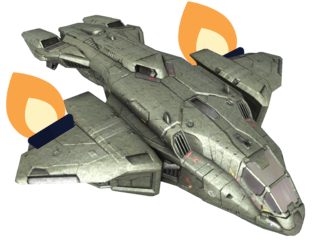
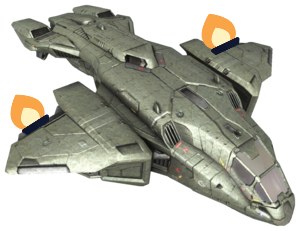
added flames to upgrade ships

diff --git a/assets/javascript/app.js b/assets/javascript/app.js
@@ -78,9 +78,6 @@ $(document).ready(function() {
             endOfGame(correct, incorrect);
         } 
         planet = planetArray[counter2]
-        console.log(xwing)
-        console.log(pelican)
-        console.log(enterprise)
         if (correct !== 2 && correct !== 4 && correct !== 7 || (xwing === true && correct === 2) || (pelican === true && correct === 4) || (enterprise === true && correct === 7)) {
             checkStatus();
         }
@@ -107,17 +104,17 @@ $(document).ready(function() {
     //Changes the users ship to the ship displayed
     $('.modal_upgrade').on('click', function(e) {
         if (correct === 2 ) {
-            $('#rocket').attr('src', shipArray[0]);
+            $('#rocket').attr('src', 'assets/images/x-wing-on.png');
             $('#rocket').css('margin-top', '1.5%');
             xwing = true;
         }
         if (correct === 4 ) {
-            $('#rocket').attr('src', shipArray[1]);
+            $('#rocket').attr('src', 'assets/images/pelican-on.png');
             $('#rocket').css('margin-top', '1%');
             pelican = true;
         }
         if (correct === 7 ) {
-            $('#rocket').attr('src', shipArray[2]);
+            $('#rocket').attr('src', 'assets/images/enterprise-on.png');
             $('#rocket').css('margin-top', '1.5%');
             enterprise = true;
         }
@@ -148,11 +145,35 @@ $(document).ready(function() {
         counter2++
         if (counter2 < 14){
         $('#rocket').addClass('animation'+counter2).removeClass('animation'+(counter2-1));
-        if (upgrade === false) {
-            $('#rocket').attr('src', 'assets/images/rocket.png')
-                timer = setTimeout(switchImage, 1000)
+            console.log(upgrade)
+            console.log(pelican)
+            console.log(xwing)     
+            if (upgrade === false) {
+                $('#rocket').attr('src', 'assets/images/rocket.png')
+                    timer = setTimeout(switchImage, 1000)
             }
-        }
+            else if (xwing === true && pelican === false) {
+                console.log("hello")
+                $('#rocket').attr('src','assets/images/x-wing-on.png')
+                timer = setTimeout(function() {
+                    $('#rocket').attr('src', 'assets/images/x-wing.png')
+                }, 1000)
+            }
+            else if (pelican === true && enterprise === false) {
+                console.log("hello")
+                $('#rocket').attr('src','assets/images/pelican-on.png')
+                timer = setTimeout(function() {
+                    $('#rocket').attr('src', 'assets/images/pelican.png')
+                }, 1000)
+            }
+            else if (enterprise === true) {
+                console.log("hello")
+                $('#rocket').attr('src','assets/images/enterprise-on.png')
+                timer = setTimeout(function() {
+                    $('#rocket').attr('src', 'assets/images/enterprise.png')
+                }, 1000)
+            }
+        }   
     };
     
     //switches the rocket image 
